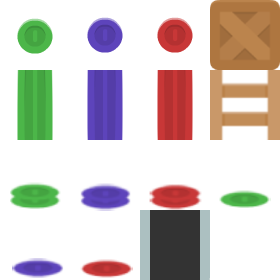
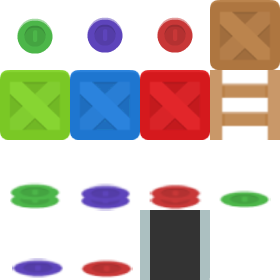
Makes switches color sensitive and adds color sensitive switches

Changed region(s): [[0.0, 0.2286, 0.7714, 0.5143]]

diff --git a/src/scenes/Game.js b/src/scenes/Game.js
@@ -26,7 +26,7 @@ export default class extends Phaser.Scene {
     this.physics.world.bounds.width = this.width
     this.physics.world.bounds.height = this.height
     this.physics.add.collider(level.pushers, level.groundLayer)
-    this.physics.add.collider(level.crates, level.players)
+    this.physics.add.collider(level.pushers, level.pushers)
     this.physics.add.overlap(level.pushers, level.buttons, this.overlap)
     this.physics.add.overlap(level.players, level.pickups, this.overlap)
 
@@ -58,7 +58,7 @@ export default class extends Phaser.Scene {
 
   overlap(player, object) {
     object.overlap(player, (obj) => {
-      if (obj.type === 'button') {
+      if (obj.type === 'button' && obj.name === player.name) {
         this.level.toggleWalls(obj)
       }
     })

diff --git a/src/sprites/Object.js b/src/sprites/Object.js
@@ -60,6 +60,9 @@ export const FRAMES = {
   },
   crate: {
     [-1]: 3,
+    5: 6,
+    6: 4,
+    7: 5,
   },
   exit: {
     [-1]: 14,
@@ -83,6 +86,9 @@ const NAMES = {
   },
   crate: {
     [-1]: 'crate',
+    5: 'red',
+    6: 'green',
+    7: 'blue',
   },
   exit: {
     [-1]: 'exit',

diff --git a/src/sprites/Player.js b/src/sprites/Player.js
@@ -42,6 +42,7 @@ export class Player extends Phaser.Physics.Arcade.Sprite {
       frameRate: 10,
     })
     this.type = object.name
+    this.name = object.name
     if (this.type === 'red') {
       this.setTint(0xff0000)
     } else if (this.type === 'green') {
